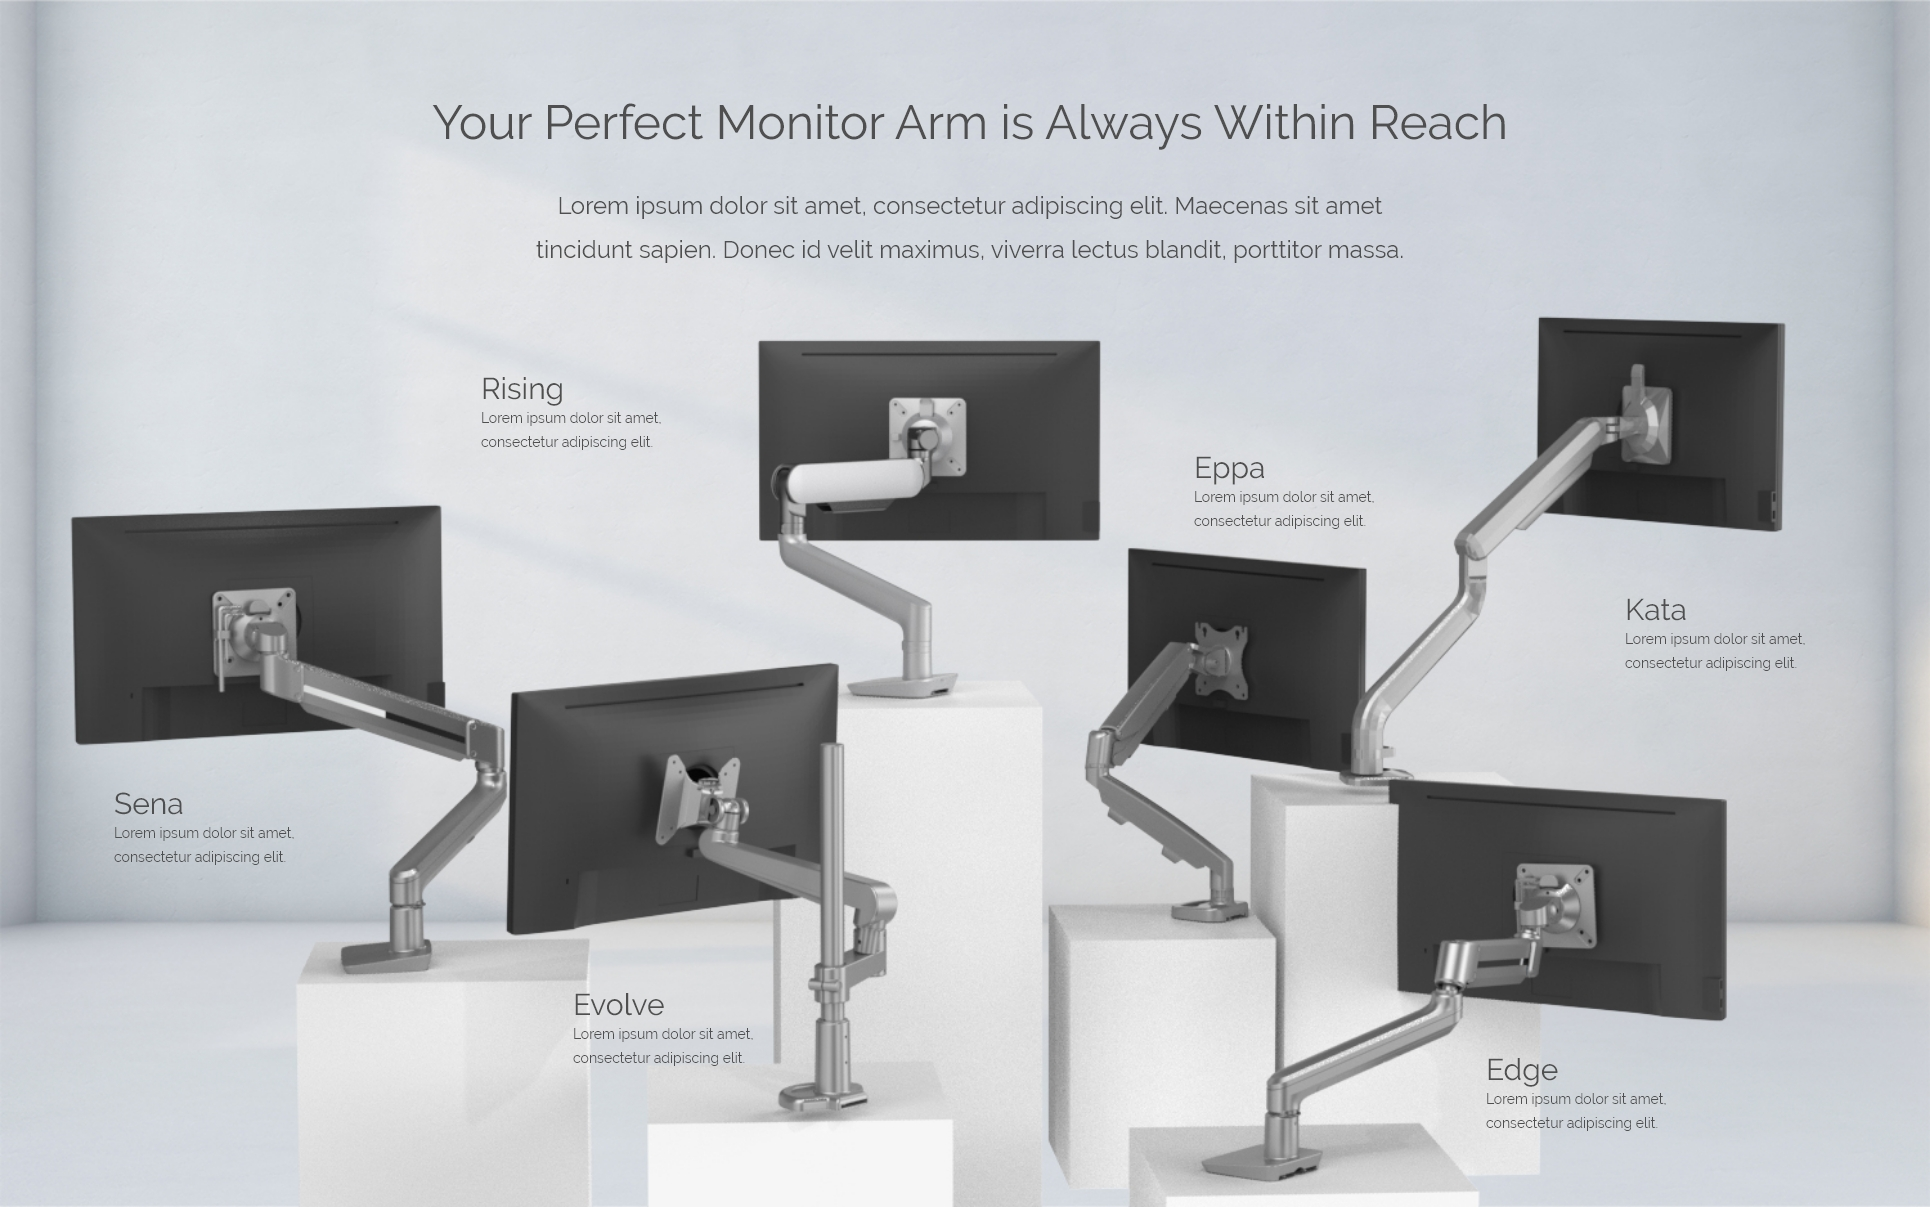
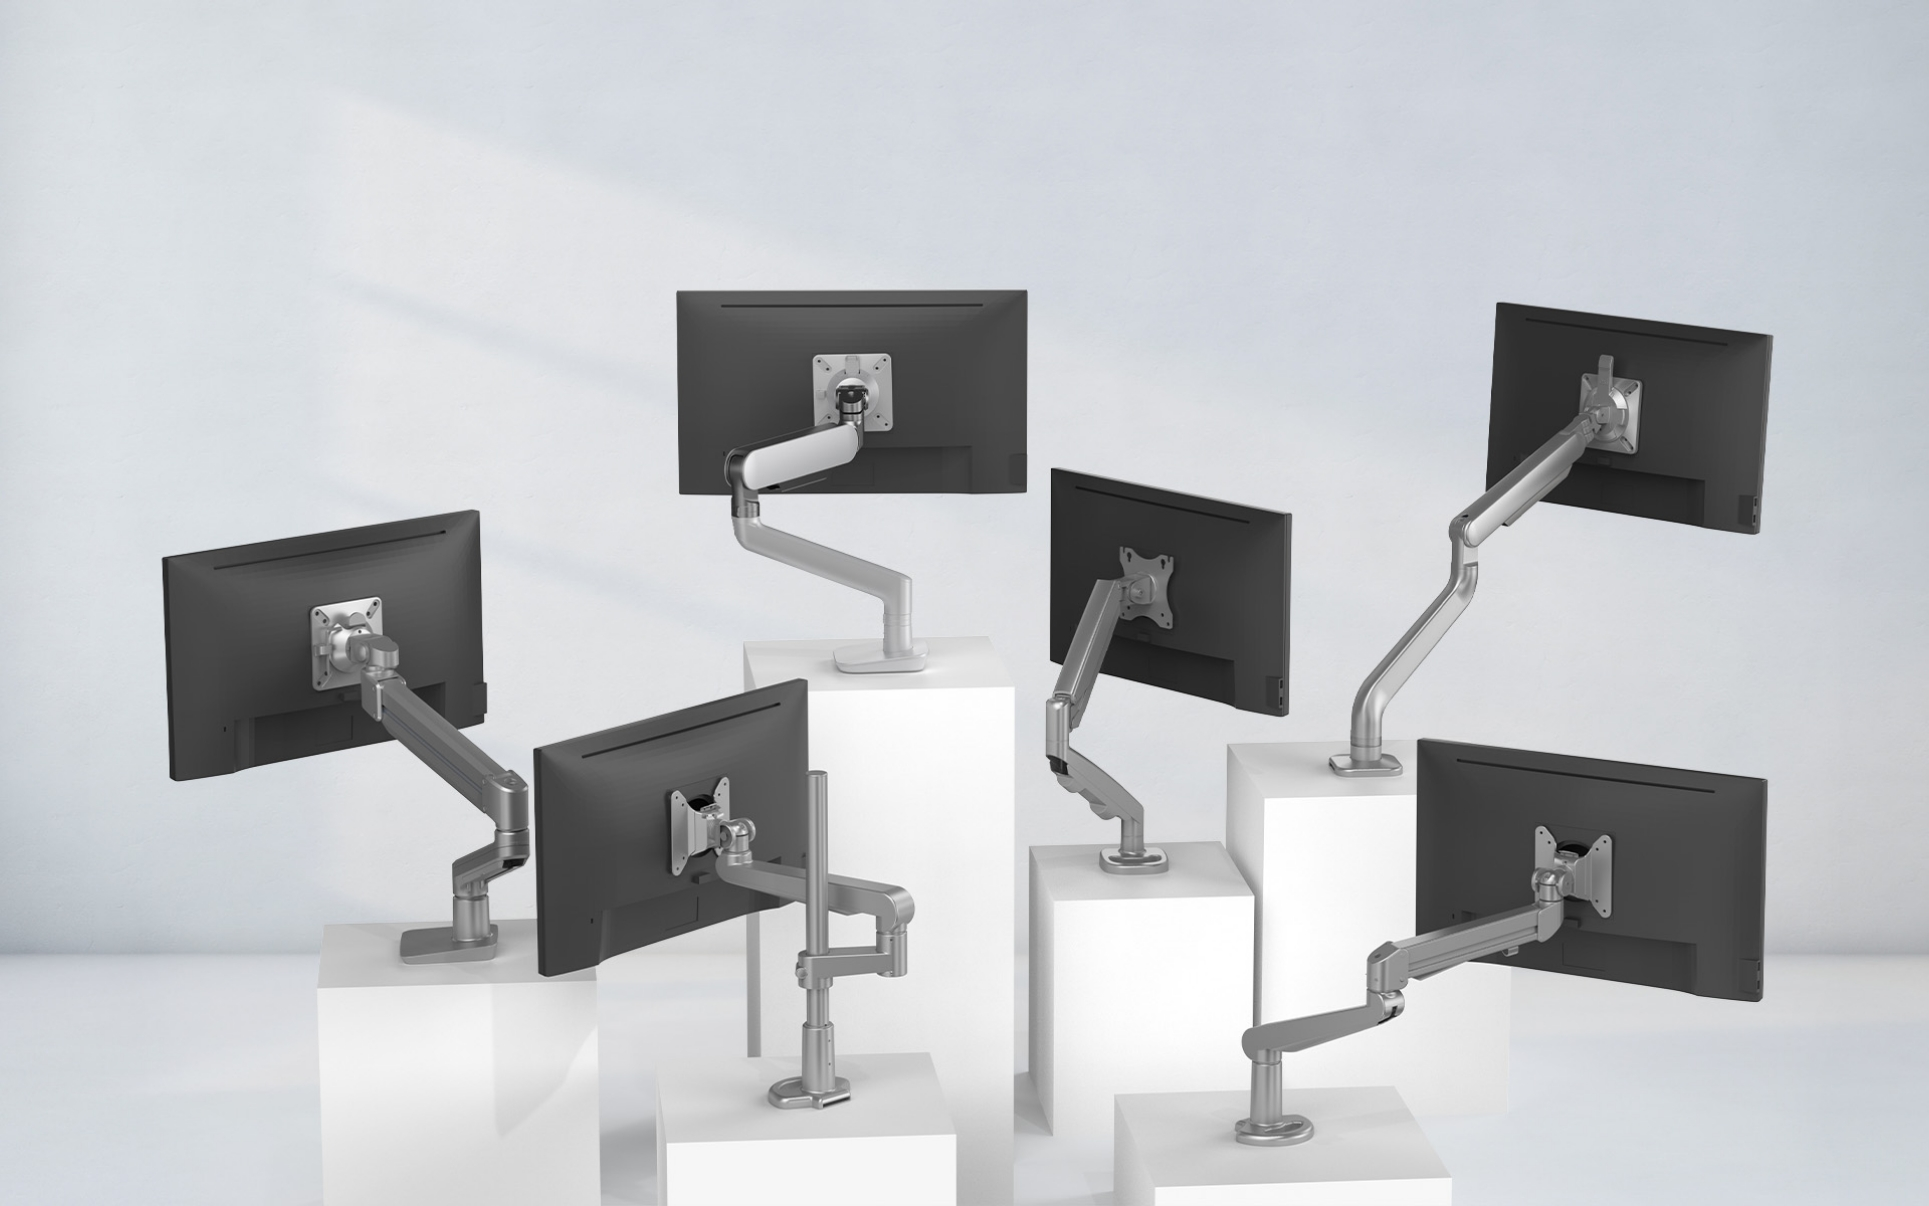
Monitor Arms Landing Page ready for staging

diff --git a/landing-monitor-arms.html b/landing-monitor-arms.html
@@ -2284,11 +2284,42 @@
       </section>
 
       <!-- Perfect Monitor Arms Section -->
-      <section class="perf-monitarms-section mb-1 mb-md-2">
+      <section class="perf-monitarms-section position-relative mb-1 mb-md-2">
+        <h2 class="perfect-title">Your Perfect Monitor Arm is Always Within Reach</h2>
+        <div class="monitor-blocks-wrapper position-absolute">
+          <div class="monitor-block-item monitor-rising">
+            <div class="monitor-title">Rising</div>
+            <div class="monitor-desc">Unparalleled Sophistication<br>in Monitor Arms</div>
+          </div>
+          <div class="monitor-block-item monitor-sena">
+            <div class="monitor-title">Sena</div>
+            <div class="monitor-desc">Award Winning Style<br>and Performance</div>
+          </div>
+          <div class="monitor-block-item monitor-evolve">
+            <div class="monitor-title">Evolve</div>
+            <div class="monitor-desc">Proven Versatility,<br>Ultimate Dependability</div>
+          </div>
+          <div class="monitor-block-item monitor-edge">
+            <div class="monitor-title">Edge</div>
+            <div class="monitor-desc">Stands the Test of Time</div>
+          </div>
+          <div class="monitor-block-item monitor-kata">
+            <div class="monitor-title">Kata</div>
+            <div class="monitor-desc">Adaptable By Design</div>
+          </div>
+          <div class="monitor-block-item monitor-eppa">
+            <div class="monitor-title">Eppa</div>
+            <div class="monitor-desc">Bid Winning Pricing</div>
+          </div>
+        </div>
         <img
           src="./img/landing-monitor-arms/perfect-monitor-arm-desktop.jpg"
-          class="img-fluid w-100 d-none d-md-block"
+          class="img-fluid w-100 d-none d-lg-block"
         />
+        <img
+        src="./img/landing-monitor-arms/perfect-monitor-arm-tablet.jpg"
+        class="img-fluid w-100 d-none d-md-block d-lg-none"
+      />
         <img
           src="./img/landing-monitor-arms/perfect-monitor-arm-mobile.jpg"
           class="img-fluid w-100 d-block d-md-none"
@@ -2299,14 +2330,11 @@
       <section class="performance-section thin-section mb-1 mb-md-2 bg-black text-white pb-5 pb-md-0">
         <div class="container">
           <div class="row align-items-stretch">
-            <div class="col-12 col-md-6 order-2 order-md-1 text-center py-5 align-self-center">
+            <div class="col-12 col-lg-6 order-2 order-l-1 text-center py-5 align-self-center">
               <h2 class="section-title px-4 px-md-0">Performance That Never Quits</h2>
-              <p class="section-body mw-475  px-4 px-md-0">
-                Lorem ipsum dolor sit amet, consectetur adipiscing elit. Maecenas sit amet tincidunt sapien. Donec id velit maximus, viverra lectus blandit, porttitor massa.
-              </p>
               <img src="./img/landing-monitor-arms/icon-LW.svg" alt="Icon depicting Lifetime Warranty" class="ltw-graphic">
             </div>
-            <div class="col-12 col-md-5 offset-md-1 order-1 order-md-2">
+            <div class="col-12 col-lg-5 offset-lg-1 order-1 order-lg-2">
               <img src="./img/landing-monitor-arms/performance-graphic.png" alt="diagram of the internal workings of a monitor arm" class="performance-img w-100 d-block align-self-stretch">
             </div>
           </div>
@@ -2328,9 +2356,6 @@
             </div>
             <div class="col-12 col-md-6 offset-md-1 text-center">
               <h2 class="section-title px-4 px-md-0">Truly Iconic. Arms with Awards.</h2>
-              <p class="section-body px-4 px-md-0">
-                Lorem ipsum dolor sit amet, consectetur adipiscing elit. Maecenas sit amet tincidunt sapien. Donec id velit maximus, viverra lectus blandit, porttitor massa.
-              </p>
             </div>
           </div>
         </div>
@@ -2343,12 +2368,84 @@
           <div class="row align-items-center py-5">
             <div class="col-12 col-md-6 text-center">
               <h2 class="section-title px-4 px-md-0">Fast & Furious<br>Samples Ship within 48 hours</h2>
-              <p class="section-body px-4 px-md-0">
-                Lorem ipsum dolor sit amet, consectetur adipiscing elit. Maecenas sit amet tincidunt sapien. Donec id velit maximus, viverra lectus blandit, porttitor massa.
-              </p>
-              <a href="#" class="ghost-btn">Request a Sample</a>
+              <a href="#" class="ghost-btn d-none">Request a Sample</a>
             </div>
             <div class="d-none d-md-block col-md-6">
+            </div>
+          </div>
+        </div>
+      </section>
+
+      <!-- Marquee Section -->
+      <section class="marquee-container-section py-5">
+        <div class="container">
+          <h2 class="text-center pt-5 pb-4">The Dealer's Choice</h2>
+          <div class="marquee-container overflow-hidden">
+            <div class="marquee-content d-flex align-items-center">
+              <div class="marquee-item text-center">
+                <div class="marquee-text-bold">Award</div>
+                <div class="marquess-text-regular">Winning Design</div>
+              </div>
+              <div class="marquee-item text-center">
+                <div class="marquee-text-bold">Free</div>
+                <div class="marquess-text-regular">Samples</div>
+              </div>
+              <div class="marquee-item text-center">
+                <div class="marquee-text-bold">Lifetime</div>
+                <div class="marquess-text-regular">Warranty</div>
+              </div>
+              <div class="marquee-item text-center">
+                <div class="marquee-text-bold">48 Hour</div>
+                <div class="marquess-text-regular">Shipping</div>
+              </div>
+              <div class="marquee-item text-center">
+                <div class="marquee-text-bold">LEVEL® 2</div>
+                <div class="marquess-text-regular">Certified</div>
+              </div>
+              <div class="marquee-item text-center">
+                <div class="marquee-text-bold">Dealer</div>
+                <div class="marquess-text-regular">Dedication</div>
+              </div>
+              <div class="marquee-item text-center">
+                <div class="marquee-text-bold">Free</div>
+                <div class="marquess-text-regular">Design Service</div>
+              </div>
+              <div class="marquee-item text-center">
+                <div class="marquee-text-bold">Standard Base</div>
+                <div class="marquess-text-regular">or Pole Mount</div>
+              </div>
+              <div class="marquee-item text-center">
+                <div class="marquee-text-bold">Award</div>
+                <div class="marquess-text-regular">Winning Design</div>
+              </div>
+              <div class="marquee-item text-center">
+                <div class="marquee-text-bold">Free</div>
+                <div class="marquess-text-regular">Samples</div>
+              </div>
+              <div class="marquee-item text-center">
+                <div class="marquee-text-bold">Lifetime</div>
+                <div class="marquess-text-regular">Warranty</div>
+              </div>
+              <div class="marquee-item text-center">
+                <div class="marquee-text-bold">48 Hour</div>
+                <div class="marquess-text-regular">Shipping</div>
+              </div>
+              <div class="marquee-item text-center">
+                <div class="marquee-text-bold">LEVEL® 2</div>
+                <div class="marquess-text-regular">Certified</div>
+              </div>
+              <div class="marquee-item text-center">
+                <div class="marquee-text-bold">Dealer</div>
+                <div class="marquess-text-regular">Dedication</div>
+              </div>
+              <div class="marquee-item text-center">
+                <div class="marquee-text-bold">Free</div>
+                <div class="marquess-text-regular">Design Service</div>
+              </div>
+              <div class="marquee-item text-center">
+                <div class="marquee-text-bold">Standard Base</div>
+                <div class="marquess-text-regular">or Pole Mount</div>
+              </div>
             </div>
           </div>
         </div>

diff --git a/css/landing-monitor-arms.css b/css/landing-monitor-arms.css
@@ -17,6 +17,17 @@
   margin-bottom: 1rem;
 }
 
+.perfect-title {
+  position: absolute;
+  top: 2rem;
+  left: 50%;
+  transform: translateX(-50%);
+  text-align: center;
+  width: 100%;
+  max-width: 90%;
+  font-size: 28px;
+}
+
 .ltw-graphic {
   width: 100%;
   max-width: 150px;
@@ -120,6 +131,95 @@
   height: 200px;
 }
 
+.marquee-container {
+  width: 100%;
+  padding: 1rem 0 2rem 0;
+  border-bottom: 1px solid #707070;
+}
+
+.marquee-content {
+  display: flex;
+  column-gap: 4rem;
+  animation: marquee 20s linear infinite;
+}
+
+.marquee-item {
+  flex: 0 0 auto;
+  font-size: 1.25rem;
+  line-height: 1.3;
+  font-weight: 400;
+  color: #000;
+}
+
+.marquee-text-bold {
+  font-weight: 700;
+}
+
+.monitor-blocks-wrapper {
+  inset: 0;
+}
+
+.monitor-block-item {
+  position: absolute;
+  width: fit-content;
+  text-align: center;
+  line-height: 1.2;
+}
+
+.monitor-title {
+  font-size: 1.1rem;
+  color: #000;
+}
+
+.monitor-desc {
+  font-size: .5rem;
+}
+
+.monitor-rising {
+  top: 22%;
+  left: 41%;
+}
+
+.monitor-sena {
+  top: 29%;
+  left: 7%;
+}
+
+.monitor-evolve {
+  top: 84.5%;
+  left: 16%;
+}
+
+.monitor-edge {
+  top: 78%;
+  right: 13.5%;
+}
+
+.monitor-kata {
+  top: 43.5%;
+  right: 6.5%;
+}
+
+.monitor-eppa {
+  top: 52%;
+  right: 44%;
+}
+
+@keyframes marquee {
+  0% {
+    transform: translateX(0%);
+  }
+
+  100% {
+    transform: translateX(-200%);
+  }
+}
+
+/* Optional: Pause animation on hover */
+/* .marquee-container:hover .marquee-content {
+  animation-play-state: paused;
+} */
+
 @media (min-width: 768px) {
   .ltw-graphic {
     max-width: 175px;
@@ -132,6 +232,59 @@
   .performance-img {
     padding-bottom: 6rem;
     max-width: 100%;
+  }
+
+  .perfect-title {
+    top: 3rem;
+    font-size: 36px;
+  }
+
+  .marquee-content {
+    column-gap: 6rem;
+    animation: marquee 30s linear infinite;
+  }
+
+  .marquee-item {
+    font-size: 1.5rem;
+  }
+
+  
+  .monitor-title {
+    font-size: 1.5rem;
+  }
+  
+  .monitor-desc {
+    font-size: .7rem;
+  }
+
+  .monitor-rising {
+    top: 22.5%;
+    left: 30%;
+  }
+
+  .monitor-sena {
+    top: 37.5%;
+    left: 4%;
+  }
+
+  .monitor-evolve {
+    top: 88%;
+    left: 35%;
+  }
+
+  .monitor-edge {
+    top: 87.75%;
+    right: 26.5%;
+  }
+
+  .monitor-kata {
+    top: 51.5%;
+    right: 7.5%;
+  }
+
+  .monitor-eppa {
+    top: 38.5%;
+    right: 30%;
   }
 }
 
@@ -180,6 +333,44 @@
 
   .explore-img-md img {
     height: 264px;
+  }
+
+  .perfect-title {
+    font-size: 44px;
+  }
+  .marquee-content {
+    column-gap: 9rem;
+    animation: marquee 40s linear infinite;
+  }
+
+  .monitor-rising {
+    top: 26%;
+    left: 23%;
+  }
+
+  .monitor-sena {
+    top: 68.5%;
+    left: 5.5%;
+  }
+
+  .monitor-evolve {
+    top: 80.8%;
+    left: 29.3%;
+  }
+
+  .monitor-edge {
+    top: 85.75%;
+    right: 15.5%;
+  }
+
+  .monitor-kata {
+    top: 45%;
+    right: 13%;
+  }
+
+  .monitor-eppa {
+    top: 34%;
+    right: 31%;
   }
 }
 
